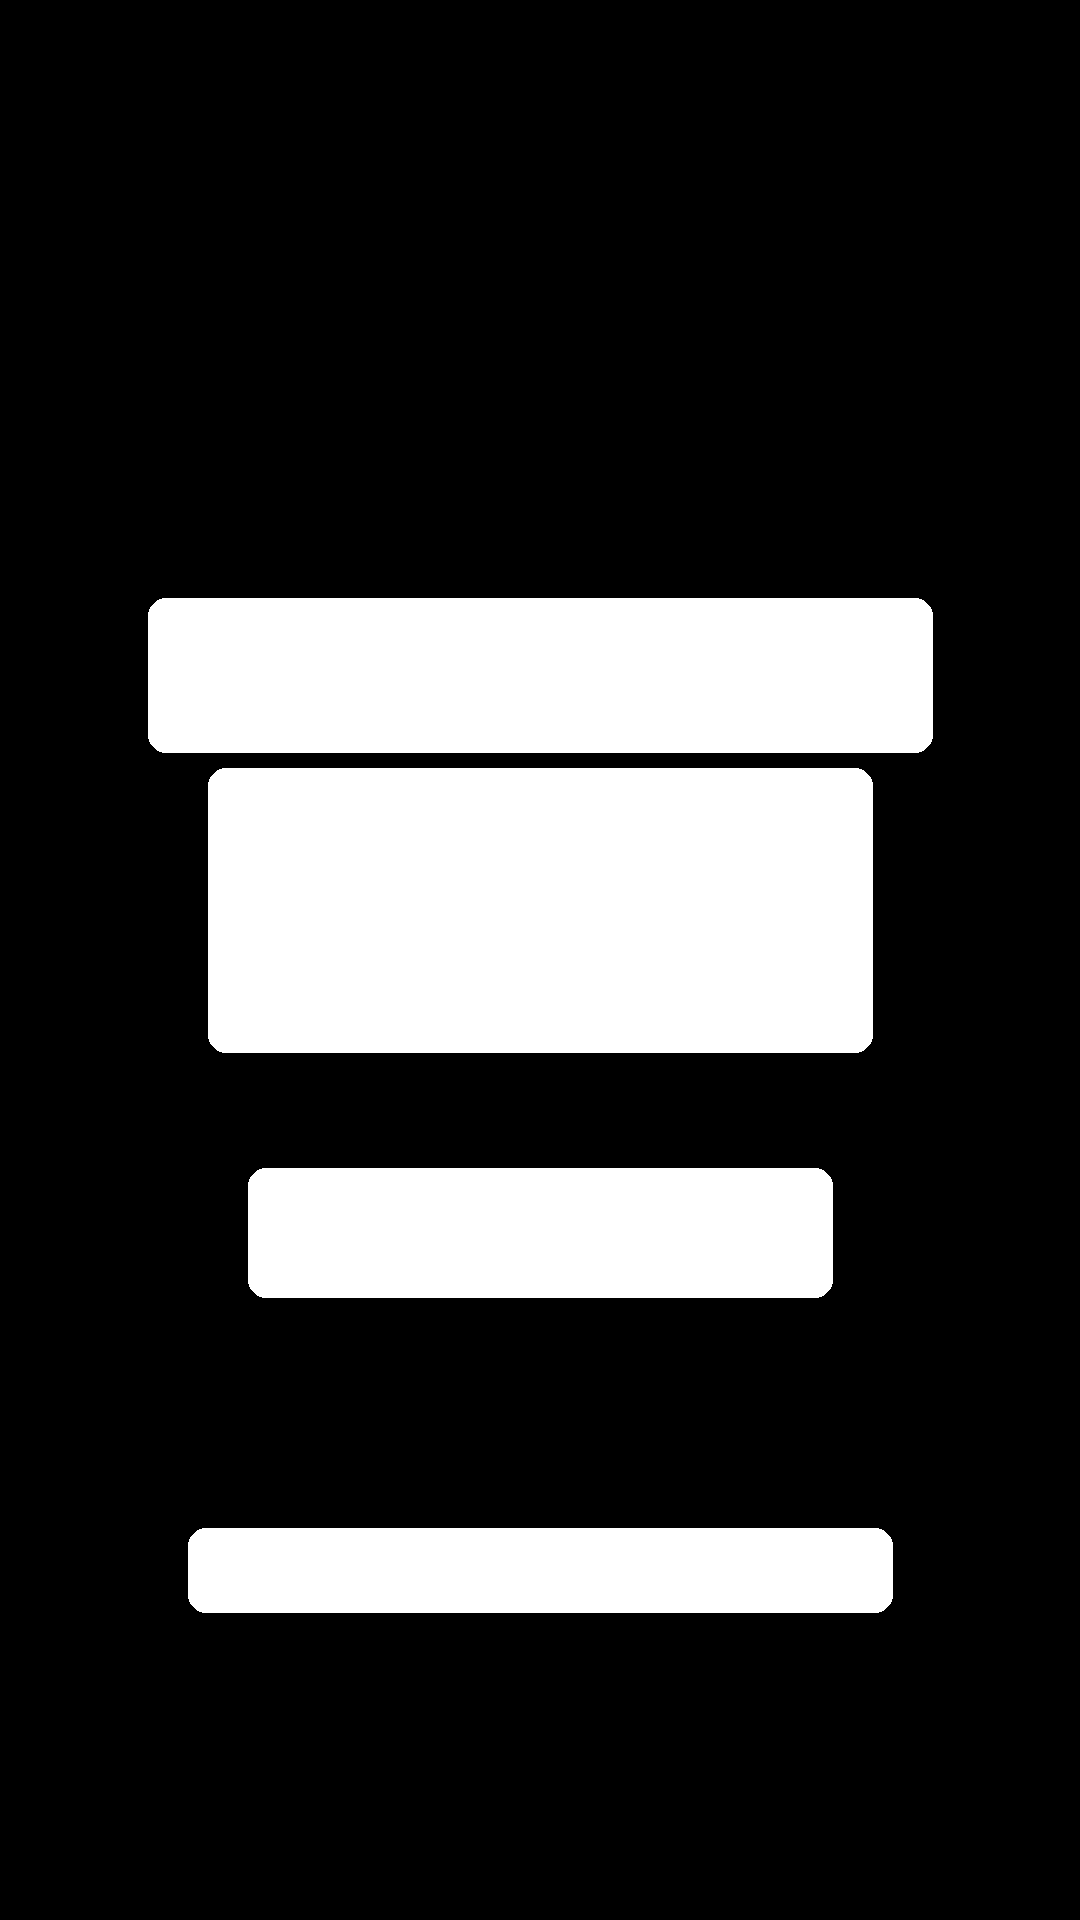
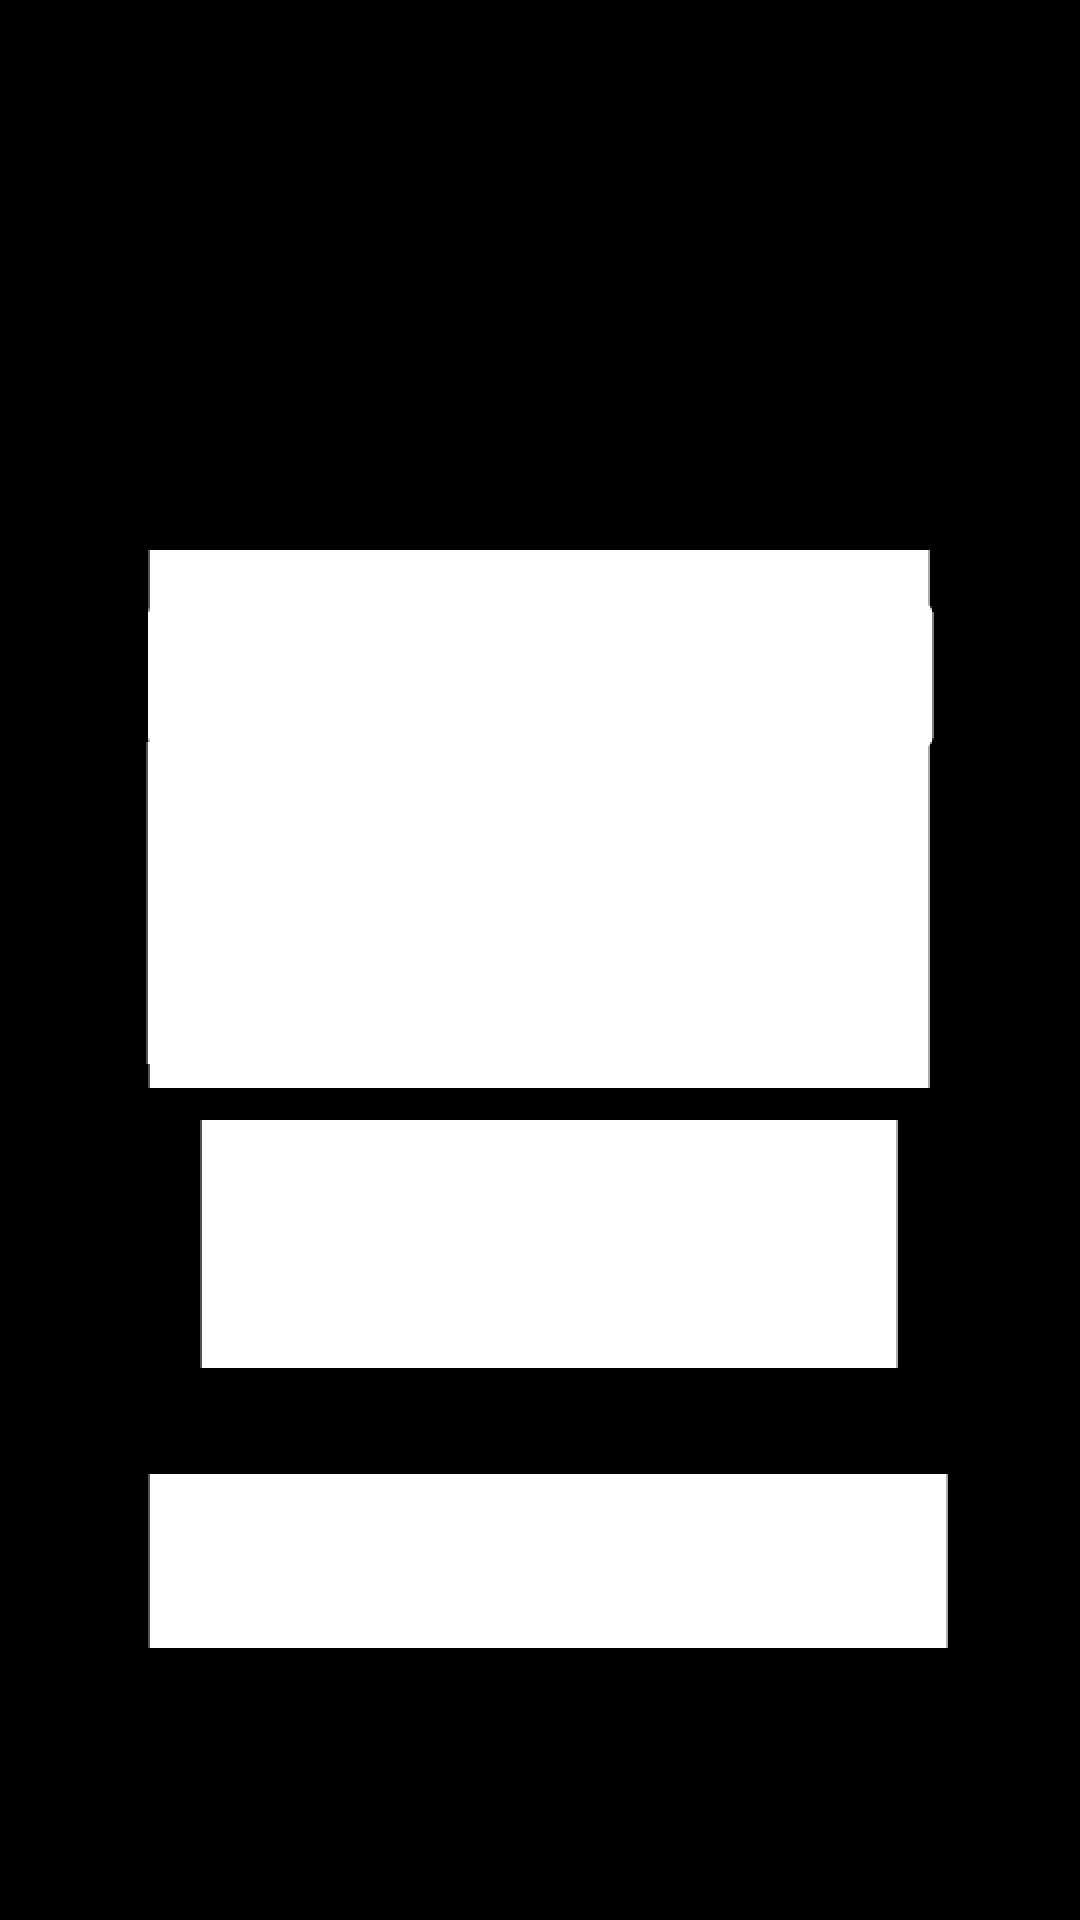
fix: improve mask switching, cancel behavior, and verification display
Issues Fixed:
1. Load Demo Mask now works after applying suggested mask
   - Added onMaskChange call in loadDemoMask.onSuccess handler
   - Canvas now properly reloads when switching between masks

2. Cancel button properly ignores generation results
   - Added generationCancelledRef to track cancelled state
   - When cancelled, mutation results are ignored (no navigation to Results)
   - Toast now explains: "Server may still process, but results will be ignored"

3. Verification accuracy now shown in variant list
   - Color-coded percentage next to each variant (Green: 75%+, Yellow: 60-74.99%, Red: <60%)
   - Shows at-a-glance which variants have been verified

Technical Details:
- useRef for cancelled flag (persists across renders)
- Async onMaskChange call for proper mask reload
- getAccuracyColorClass helper for consistent coloring

Changed region(s): [[0.1222, 0.375, 0.8861, 0.7188], [0.1222, 0.75, 0.8861, 0.875], [0.1222, 0.2812, 0.8861, 0.3125]]

diff --git a/src/app/project/[id]/page.tsx b/src/app/project/[id]/page.tsx
@@ -7,7 +7,7 @@
 
 "use client";
 
-import { useState, useCallback, useEffect, useMemo } from "react";
+import { useState, useCallback, useEffect, useMemo, useRef } from "react";
 import { useParams, useRouter } from "next/navigation";
 import { toast } from "sonner";
 import { api } from "~/trpc/react";
@@ -123,6 +123,9 @@ export default function ProjectPage() {
   // Verification state (Sprint 9)
   const [verifyingLocale, setVerifyingLocale] = useState<LocaleId | null>(null);
 
+  // Track if generation was cancelled (to ignore results when mutation completes)
+  const generationCancelledRef = useRef(false);
+
   // Calculate canvas dimensions based on base image aspect ratio
   const canvasDimensions = useMemo(
     () => calculateCanvasDimensions(queries.baseImageWidth, queries.baseImageHeight),
@@ -237,6 +240,12 @@ export default function ProjectPage() {
   // Vision pipeline generation mutation
   const generateWithVisionMutation = api.variant.generateAllWithVision.useMutation({
     onSuccess: (data) => {
+      // Check if generation was cancelled - ignore results if so
+      if (generationCancelledRef.current) {
+        console.log("[ProjectPage] Generation was cancelled, ignoring results");
+        generationCancelledRef.current = false;
+        return;
+      }
       setGenerationProgress(100);
       void queries.refetchProject();
       workflow.goToResults();
@@ -245,6 +254,7 @@ export default function ProjectPage() {
       }
     },
     onError: () => {
+      generationCancelledRef.current = false;
       setGenerationProgress(0);
     },
   });
@@ -308,15 +318,19 @@ export default function ProjectPage() {
   // Cancel handler for generation
   const handleCancelGeneration = useCallback(() => {
     console.log("[ProjectPage] Cancelling generation");
+    // Mark as cancelled so mutation results are ignored
+    generationCancelledRef.current = true;
     // Cancel streaming if active
     streaming.cancel();
     // Reset generation state
     setGenerationProgress(0);
     setCurrentGeneratingLocale(null);
-    toast.info("Generation cancelled");
+    toast.info("Generation cancelled", { description: "Server may still process, but results will be ignored" });
   }, [streaming]);
 
   const handleGenerate = useCallback(async () => {
+    // Reset cancelled flag when starting new generation
+    generationCancelledRef.current = false;
     setIsDemoMode(false);
     setGenerationProgress(0);
 

diff --git a/src/components/project/sidebar/ResultsSidebar.tsx b/src/components/project/sidebar/ResultsSidebar.tsx
@@ -54,6 +54,17 @@ function getDriftBadgeVariant(
 }
 
 /**
+ * Get color class for verification accuracy
+ * Green: 75%+, Yellow: 60-74.99%, Red: below 60%
+ */
+function getAccuracyColorClass(accuracy: number | null): string {
+  if (accuracy === null) return "";
+  if (accuracy >= 75) return "text-green-500";
+  if (accuracy >= 60) return "text-yellow-500";
+  return "text-red-500";
+}
+
+/**
  * ResultsSidebar Component
  *
  * Sidebar panel for the Results step.
@@ -104,13 +115,15 @@ export function ResultsSidebar({
             {variants.map((v) => {
               const meta = LOCALE_REGISTRY[v.locale];
               const isActive = activeVariant === v.locale;
+              const hasAccuracy = v.translationAccuracy !== null;
+              const accuracyColor = getAccuracyColorClass(v.translationAccuracy);
 
               return (
                 <button
                   key={v.locale}
                   onClick={() => onVariantSelect(v.locale)}
                   className={`
-                    w-full flex items-center gap-3 px-3 py-2 rounded-lg transition-all text-left
+                    w-full flex items-center gap-2 px-3 py-2 rounded-lg transition-all text-left
                     ${isActive
                       ? "bg-primary/10 border border-primary/30"
                       : "bg-muted/50 border border-transparent hover:bg-muted"
@@ -129,6 +142,12 @@ export function ResultsSidebar({
                       )}
                     </div>
                   </div>
+                  {/* Verification accuracy indicator */}
+                  {hasAccuracy && (
+                    <span className={`text-xs font-semibold ${accuracyColor}`}>
+                      {v.translationAccuracy?.toFixed(0)}%
+                    </span>
+                  )}
                   {v.driftStatus !== "PENDING" && (
                     <Badge
                       variant={getDriftBadgeVariant(v.driftStatus)}

diff --git a/src/hooks/useProjectMutations.ts b/src/hooks/useProjectMutations.ts
@@ -65,10 +65,11 @@ export function useProjectMutations({
   });
 
   const loadDemoMask = api.project.loadDemoMask.useMutation({
-    onSuccess: () => {
+    onSuccess: async () => {
       toast.success("Demo mask loaded");
       onProjectChange?.();
-      // Note: caller should handle canvas reload via onMaskChange
+      // Must call onMaskChange to reload the mask into the canvas
+      await onMaskChange?.();
     },
     onError: (error) => toast.error("Load failed", { description: error.message }),
   });
